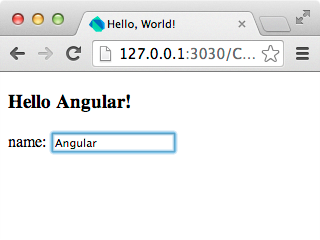
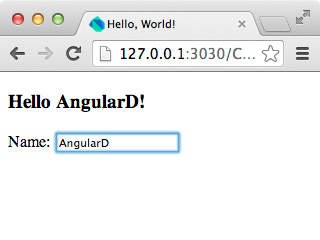
Tweaks to Chapter 1
Review URL: https://codereview.appspot.com/55400043

Changed region(s): [[0.0, 0.525, 0.3438, 0.6417], [0.375, 0.3792, 0.4688, 0.4667], [0.5312, 0.525, 0.5938, 0.6417]]

diff --git a/Chapter_01/web/index.html b/Chapter_01/web/index.html
@@ -6,7 +6,7 @@
 <body>
   
   <h3>Hello {{name}}!</h3>
-  name: <input type="text" ng-model="name">
+  Name: <input type="text" ng-model="name">
   
   <script type="application/dart" src="main.dart"></script>
   <script type="text/javascript" src="packages/browser/dart.js"></script>
